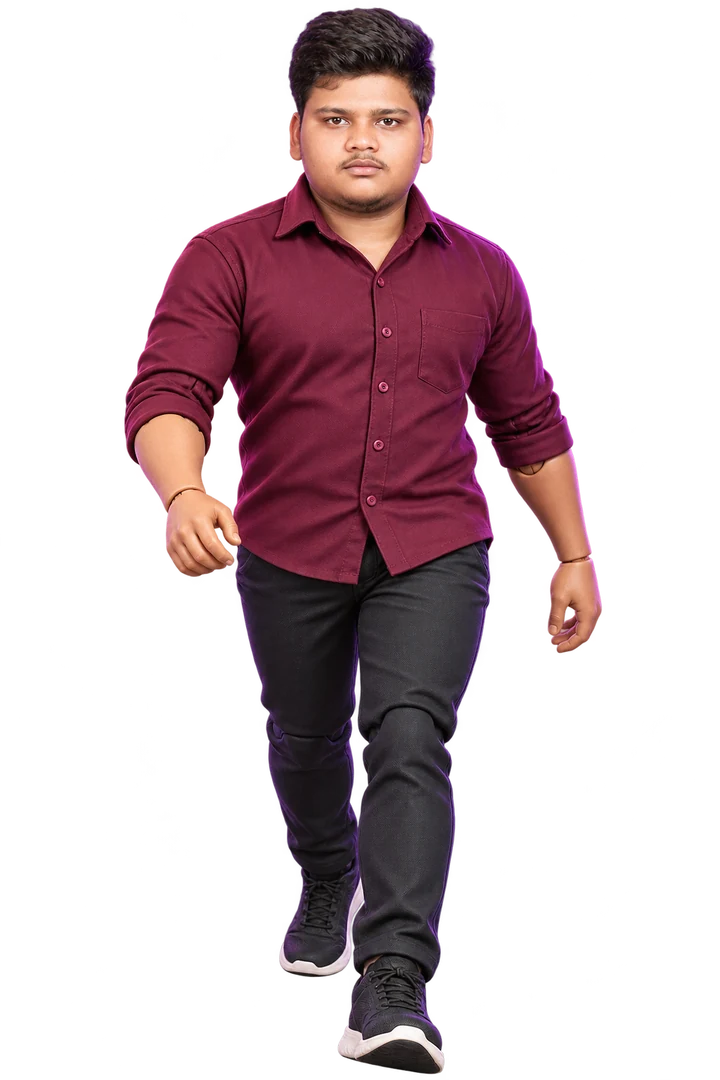
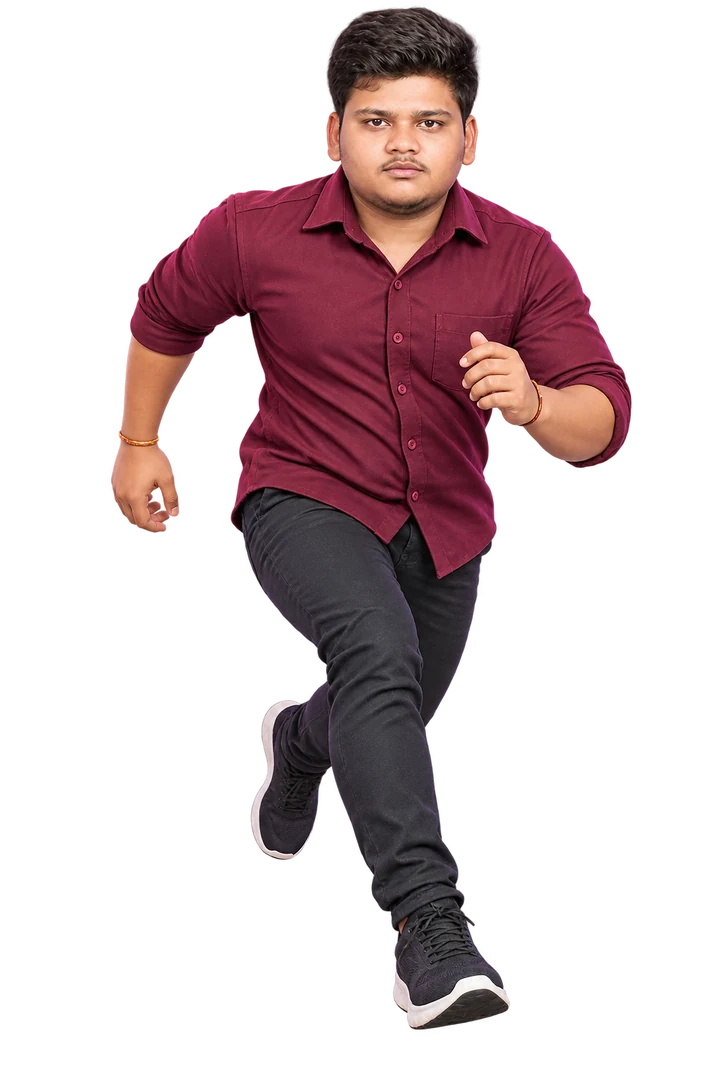
Animate personalized figure running on scroll

Changed region(s): [[0.1528, 0.0, 0.8861, 1.0]]

diff --git a/src/styles.css b/src/styles.css
@@ -7,10 +7,10 @@
 /* A large, scroll-driven portrait figure made from Rama's uploaded photo. */
 .scroll-figure-rail{position:fixed;z-index:7;top:12vh;bottom:12vh;right:34px;width:1px;pointer-events:none;background:linear-gradient(transparent,#a78bfa38 12%,#a78bfa38 88%,transparent)}
 .scroll-figure{position:fixed;z-index:8;right:9px;width:clamp(150px,16vw,224px);display:flex;flex-direction:column;align-items:center;pointer-events:none;will-change:top,transform;filter:drop-shadow(0 8px 22px #0005)}
-.scroll-figure img{display:block;width:100%;height:auto;object-fit:contain;animation:portrait-bob 1.8s ease-in-out infinite alternate}
+.scroll-figure img{display:block;width:100%;height:auto;object-fit:contain;transform-origin:bottom center;animation:portrait-run .38s cubic-bezier(.36,0,.64,1) infinite}
 .figure-caption{position:relative;margin-top:-9px;padding:6px 9px;border:1px solid var(--line);border-radius:6px;background:rgba(17,20,31,.88);color:#d7caff;font:8px "DM Mono",monospace;letter-spacing:.8px;white-space:nowrap;backdrop-filter:blur(10px)}
 .light .figure-caption{background:rgba(255,255,255,.9);color:#514178}
-@keyframes portrait-bob{to{transform:translateY(-7px)}}
+@keyframes portrait-run{0%,100%{transform:translateY(0) rotate(1deg)}25%{transform:translateY(-9px) rotate(-2deg)}50%{transform:translateY(0) rotate(1.5deg)}75%{transform:translateY(-6px) rotate(-1.5deg)}}
 @media(max-width:900px){.scroll-figure-rail{right:14px}.scroll-figure{right:-36px;width:clamp(150px,24vw,190px);opacity:.82}}
 @media(max-width:640px){.scroll-figure,.scroll-figure-rail{display:none}}
 @media(prefers-reduced-motion:reduce){.scroll-figure img{animation:none!important}}
